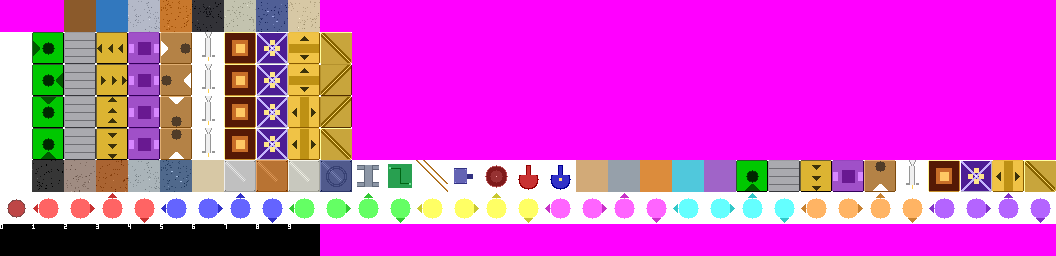
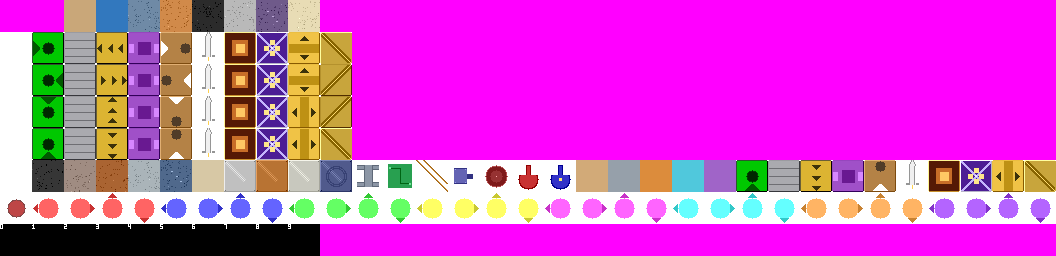
feat(render): refactor block-color tables, regen atlas

Changed region(s): [[0.0625, 0.0, 0.1875, 0.125], [0.2188, 0.0, 0.2812, 0.125]]

diff --git a/factoriax/playground/ui/icons.py b/factoriax/playground/ui/icons.py
@@ -56,6 +56,37 @@ ITEM_COLORS: dict[int, tuple[int, int, int]] = {
 # Block textures
 # ---------------------------------------------------------------------------
 
+# Tile colours per BlockType. Single source of truth for the procedural
+# textures used by :func:`create_default_textures` (and therefore the
+# baked sprite atlas at ``factoriax/assets/atlas.png``) and the paper's
+# reset-grid figure, so the engine render and the paper plot agree on
+# what each resource looks like.
+BLOCK_COLORS: dict[int, tuple[int, int, int]] = {
+    int(BlockType.DIRT): (201, 167, 121),
+    int(BlockType.WATER): (50, 120, 190),
+    int(BlockType.IRON): (111, 138, 166),
+    int(BlockType.COPPER): (209, 138, 74),
+    int(BlockType.COAL): (43, 43, 43),
+    int(BlockType.TIN): (185, 185, 185),
+    int(BlockType.SILICON): (111, 90, 138),
+    int(BlockType.LIMESTONE): (232, 220, 181),
+}
+
+# Ores rendered with a crystal-pattern overlay rather than the default
+# blob pattern. Currently SILICON only; the set leaves room for future
+# crystalline ores without touching the texture code.
+_CRYSTALLINE_ORES: frozenset[int] = frozenset({int(BlockType.SILICON)})
+
+_SOLID_BLOCKS: tuple[int, ...] = (int(BlockType.DIRT), int(BlockType.WATER))
+_ORE_BLOCKS: tuple[int, ...] = (
+    int(BlockType.IRON),
+    int(BlockType.COPPER),
+    int(BlockType.COAL),
+    int(BlockType.TIN),
+    int(BlockType.SILICON),
+    int(BlockType.LIMESTONE),
+)
+
 
 def _resize_texture(texture: np.ndarray, size: int) -> np.ndarray:
     """Resize a texture to *size* × *size* using nearest-neighbour sampling.
@@ -107,25 +138,16 @@ def create_default_textures(size: int = BLOCK_PIXEL_SIZE) -> dict[int, np.ndarra
     Returns:
         Dictionary mapping BlockType values to RGBA texture arrays.
     """
-    solid_colors: dict[int, tuple[int, int, int]] = {
-        int(BlockType.DIRT): (139, 90, 43),
-        int(BlockType.WATER): (50, 120, 190),
-    }
-    ore_colors: dict[int, tuple[tuple[int, int, int], bool]] = {
-        int(BlockType.IRON): ((180, 185, 200), False),
-        int(BlockType.COPPER): ((200, 120, 45), False),
-        int(BlockType.COAL): ((50, 50, 55), False),
-        int(BlockType.TIN): ((195, 195, 175), False),
-        int(BlockType.SILICON): ((80, 95, 150), True),
-        int(BlockType.LIMESTONE): ((215, 200, 165), False),
-    }
-
     textures: dict[int, np.ndarray] = {
-        block_id: _solid_texture(size, rgb) for block_id, rgb in solid_colors.items()
+        block_id: _solid_texture(size, BLOCK_COLORS[block_id])
+        for block_id in _SOLID_BLOCKS
     }
-    for block_id, (rgb, crystalline) in ore_colors.items():
+    for block_id in _ORE_BLOCKS:
+        rgb = BLOCK_COLORS[block_id]
         tex = _solid_texture(size, rgb)
-        _draw_ore_patches(tex, rgb, seed=block_id, crystalline=crystalline)
+        _draw_ore_patches(
+            tex, rgb, seed=block_id, crystalline=block_id in _CRYSTALLINE_ORES
+        )
         textures[block_id] = tex
     return textures
 
@@ -930,10 +952,11 @@ def _draw_rocket(
     icon[body_top:body_bot, mid - body_w // 2 : mid - body_w // 2 + body_w] = body
     icon[body_top:body_bot, mid - body_w // 2] = dark
     icon[body_top:body_bot, mid - body_w // 2 + body_w - 1] = dark
-    # Conical nose.
+    # Conical nose: widest at the base (y just above the body) and tapering
+    # to a point at the icon's top edge.
     for t in range(body_top):
         y = body_top - 1 - t
-        half = body_w // 2 - (body_top - 1 - t) // 2
+        half = body_w // 2 - t // 2
         if half < 0:
             continue
         icon[y, mid - half : mid + half + 1] = body
